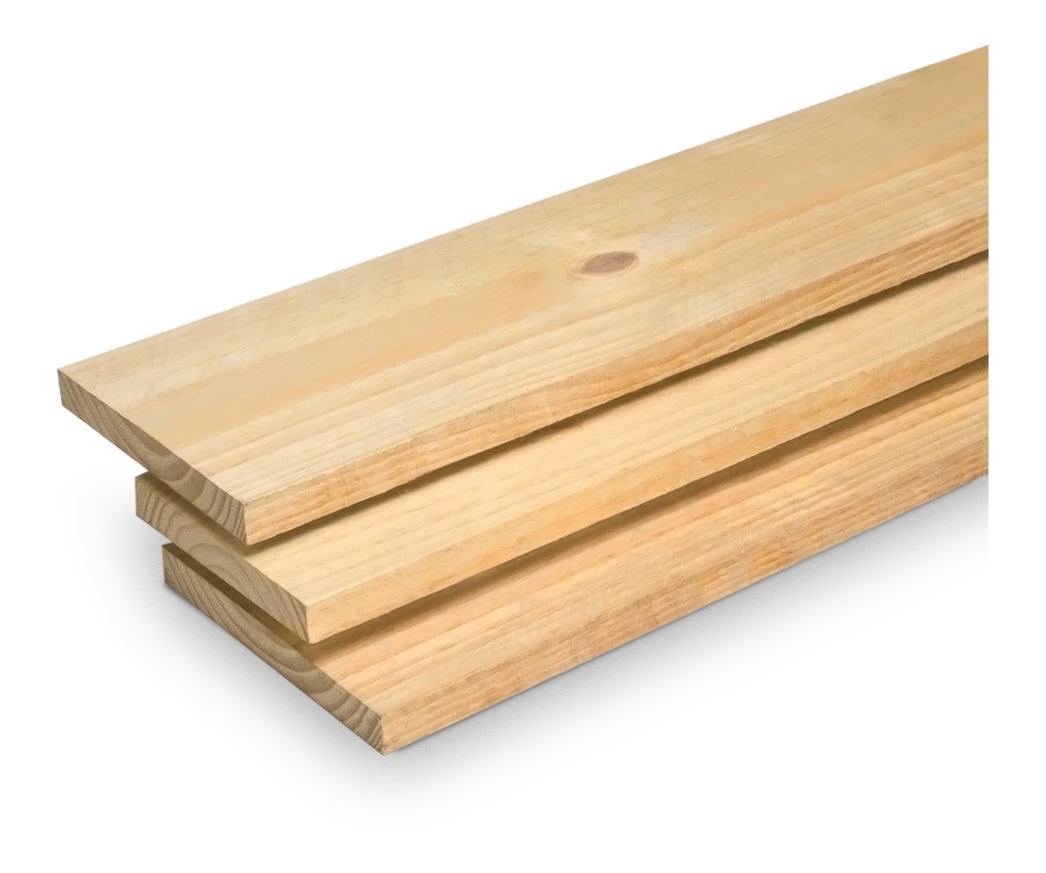
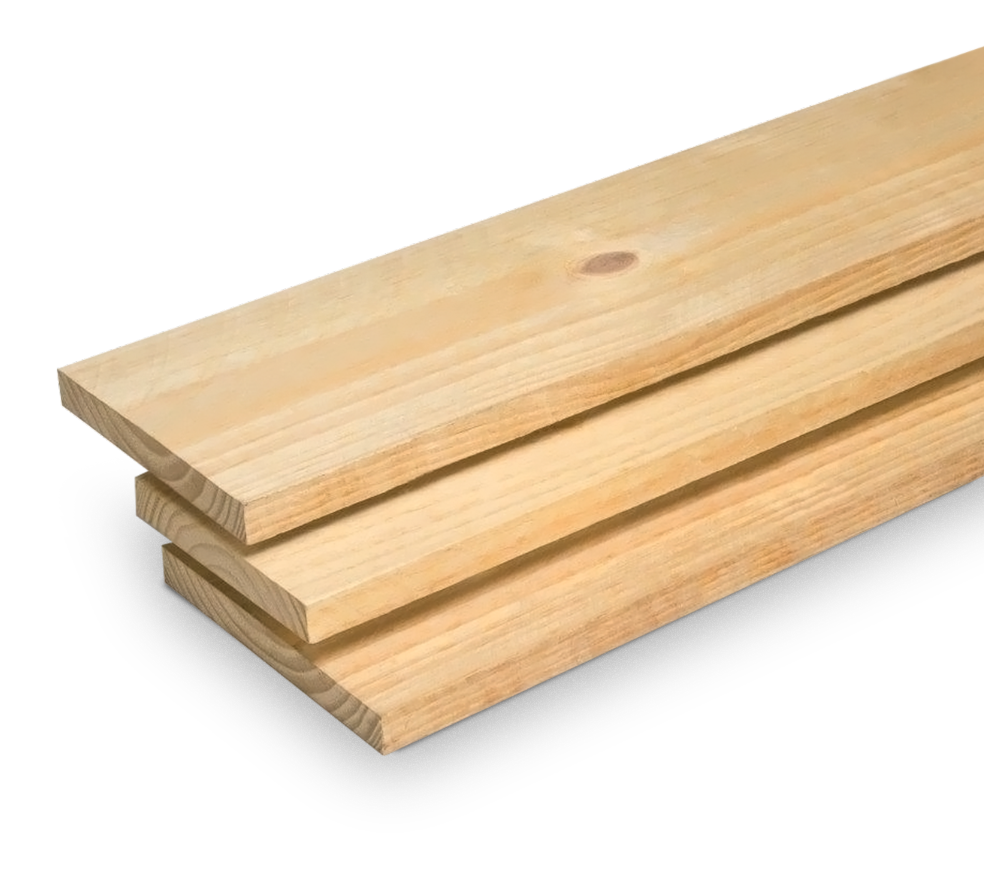
product page update

diff --git a/src/components/Product/ProductBody/ProductBody.tsx b/src/components/Product/ProductBody/ProductBody.tsx
@@ -64,6 +64,7 @@ export const ProductBody = ({
         w={'100%'}
         padding={{ base: '5% 0 10% 5%', '2xl': '5% 0 5% 3%' }}
         position="relative"
+        pointerEvents={'none'}
       >
         <Box>
           {description && (
@@ -76,7 +77,7 @@ export const ProductBody = ({
                 xl: '70px',
                 '2xl': '80px'
               }}
-              maxW={{ base: '100%', sm: '50%', md: '80%', lg: '100%' }}
+              maxW={{ base: '600px', lg: '900px', xl: '1200px' }}
             >
               <Text
                 as={'h3'}
@@ -102,7 +103,7 @@ export const ProductBody = ({
                 '2xl': '80px'
               }}
               zIndex="docked"
-              maxW={{ base: '100%', sm: '60%', md: '100%' }}
+              maxW={{ base: '100%', md: '100%' }}
             >
               <Text
                 as={'h3'}
@@ -131,6 +132,7 @@ export const ProductBody = ({
                 xl: '70px',
                 '2xl': '80px'
               }}
+              maxW={{ base: '600px', lg: '900px' }}
             >
               <Text
                 as={'h3'}
@@ -155,13 +157,15 @@ export const ProductBody = ({
                 xl: '70px',
                 '2xl': '80px'
               }}
+              pointerEvents="none"
             >
               <Text
                 as={'h3'}
                 variant={'h3'}
                 color="green.900"
                 fontWeight={'extrabold'}
-                zIndex="docked"
+
+                // zIndex="docked"
               >
                 {componentsLabels.t('product.finishes')}
               </Text>
@@ -282,8 +286,9 @@ export const ProductBody = ({
         {BottomComponent}
         {productWithBP && (
           <Box
-          //marginBottom={{ base: '30px', sm: '50px' }}
-          //paddingX={{ base: '0', sm: '5%' }}
+            //marginBottom={{ base: '30px', sm: '50px' }}
+            //paddingX={{ base: '0', sm: '5%' }}
+            pointerEvents={'visible'}
           >
             <ProductWithBP {...productWithBP} />
           </Box>

diff --git a/src/components/Product/Product.tsx b/src/components/Product/Product.tsx
@@ -60,30 +60,37 @@ export const Product = ({
         <GrafismProduct {...grafismProps} />
 
         <ProductHeader {...header} />
+
         {imgSrc && (
           <Flex
             direction="column"
             width="100vw"
-            position={{ base: 'relative', sm: 'absolute' }}
-            top="0"
-            right="0"
+            position={{ base: 'relative', md: 'absolute' }}
+            top={{ md: '0' }}
+            right={{ md: '50%' }}
+            transform={{ md: 'translateX(50%)' }}
             alignItems={'flex-end'}
-            zIndex={'base'}
+            bg={{ base: body?.backgroundColor, md: 'none' }}
+            // border="2px solid blue"
           >
             <Flex
+              // border="2px solid red"
               justifyContent="flex-end"
-              w="100vw"
-              bg={{ base: body?.backgroundColor, sm: 'none' }}
-              zIndex={'base'}
+              w={{ base: '90%', md: '47%' }}
             >
               <Image
+                marginTop={{ base: '-50px', md: '0' }}
                 as="img"
                 src={imgSrc}
                 alt="product image"
-                width={imgWidth}
-                maxWidth={imgMaxWidth}
-                marginTop={imgMarginTop}
-                marginRight={imgMarginRight}
+                w="100%"
+                objectFit={'contain'}
+                objectPosition="right"
+                maxH={'1000px'}
+                // width={imgWidth}
+                // maxWidth={imgMaxWidth}
+                // marginTop={imgMarginTop}
+                // marginRight={imgMarginRight}
                 zIndex={'base'}
               />
             </Flex>
@@ -96,6 +103,7 @@ export const Product = ({
             )}
           </Flex>
         )}
+
         <ProductBody
           {...body}
           secondaryBackgroundColor={secondaryBackground}

diff --git a/src/views/products/berneck-pinus.tsx b/src/views/products/berneck-pinus.tsx
@@ -55,13 +55,13 @@ export default function BerneckPinusView({
         imgWidth={{ base: '100vw', sm: '60vw' }}
         imgMaxWidth="1151px"
         imgMarginTop={{ base: '-30%', sm: '-5%' }}
-        imgMarginRight={{
-          base: '-30px',
-          sm: '-40px',
-          md: '-75px',
-          lg: '-100px',
-          xl: '-150px'
-        }}
+        // imgMarginRight={{
+        //   base: '-30px',
+        //   sm: '-40px',
+        //   md: '-75px',
+        //   lg: '-100px',
+        //   xl: '-150px'
+        // }}
         secondaryBackground="#F5F6F4"
         downloadAndLinks={{
           textColor: '#376B5C',

diff --git a/src/components/Product/ProductDownloadAndLinks/ProductDownloadItem/ProductDownloadItem.tsx b/src/components/Product/ProductDownloadAndLinks/ProductDownloadItem/ProductDownloadItem.tsx
@@ -47,6 +47,7 @@ export const ProductDownloadItem = ({
       marginBottom={{ base: '15px', md: '0px' }}
       onMouseEnter={() => setIsHover(true)}
       onMouseLeave={() => setIsHover(false)}
+      position="relative"
     >
       {iconName === 'datasheet' ? (
         <DatasheetIcon
@@ -92,6 +93,8 @@ export const ProductDownloadItem = ({
           xl: '13px',
           '2xl': '15px'
         }}
+        w="50%"
+        fontSize={{ base: '10px', lg: '12px', xl: '14px' }}
       >
         {text}
       </Text>

diff --git a/src/components/Product/ProductBody/ProductWithBP/ProductWithBP.tsx b/src/components/Product/ProductBody/ProductWithBP/ProductWithBP.tsx
@@ -112,7 +112,7 @@ export const ProductWithBP = ({
         </Text>
 
         {type === 'centralizedBtn' && (
-          <Link href={href} _hover={{ outline: 'none' }}>
+          <Link href={href} _hover={{ outline: 'none' }} position="relative">
             <Center
               bg={btnColor}
               _hover={{ bg: btnHoverColor }}
